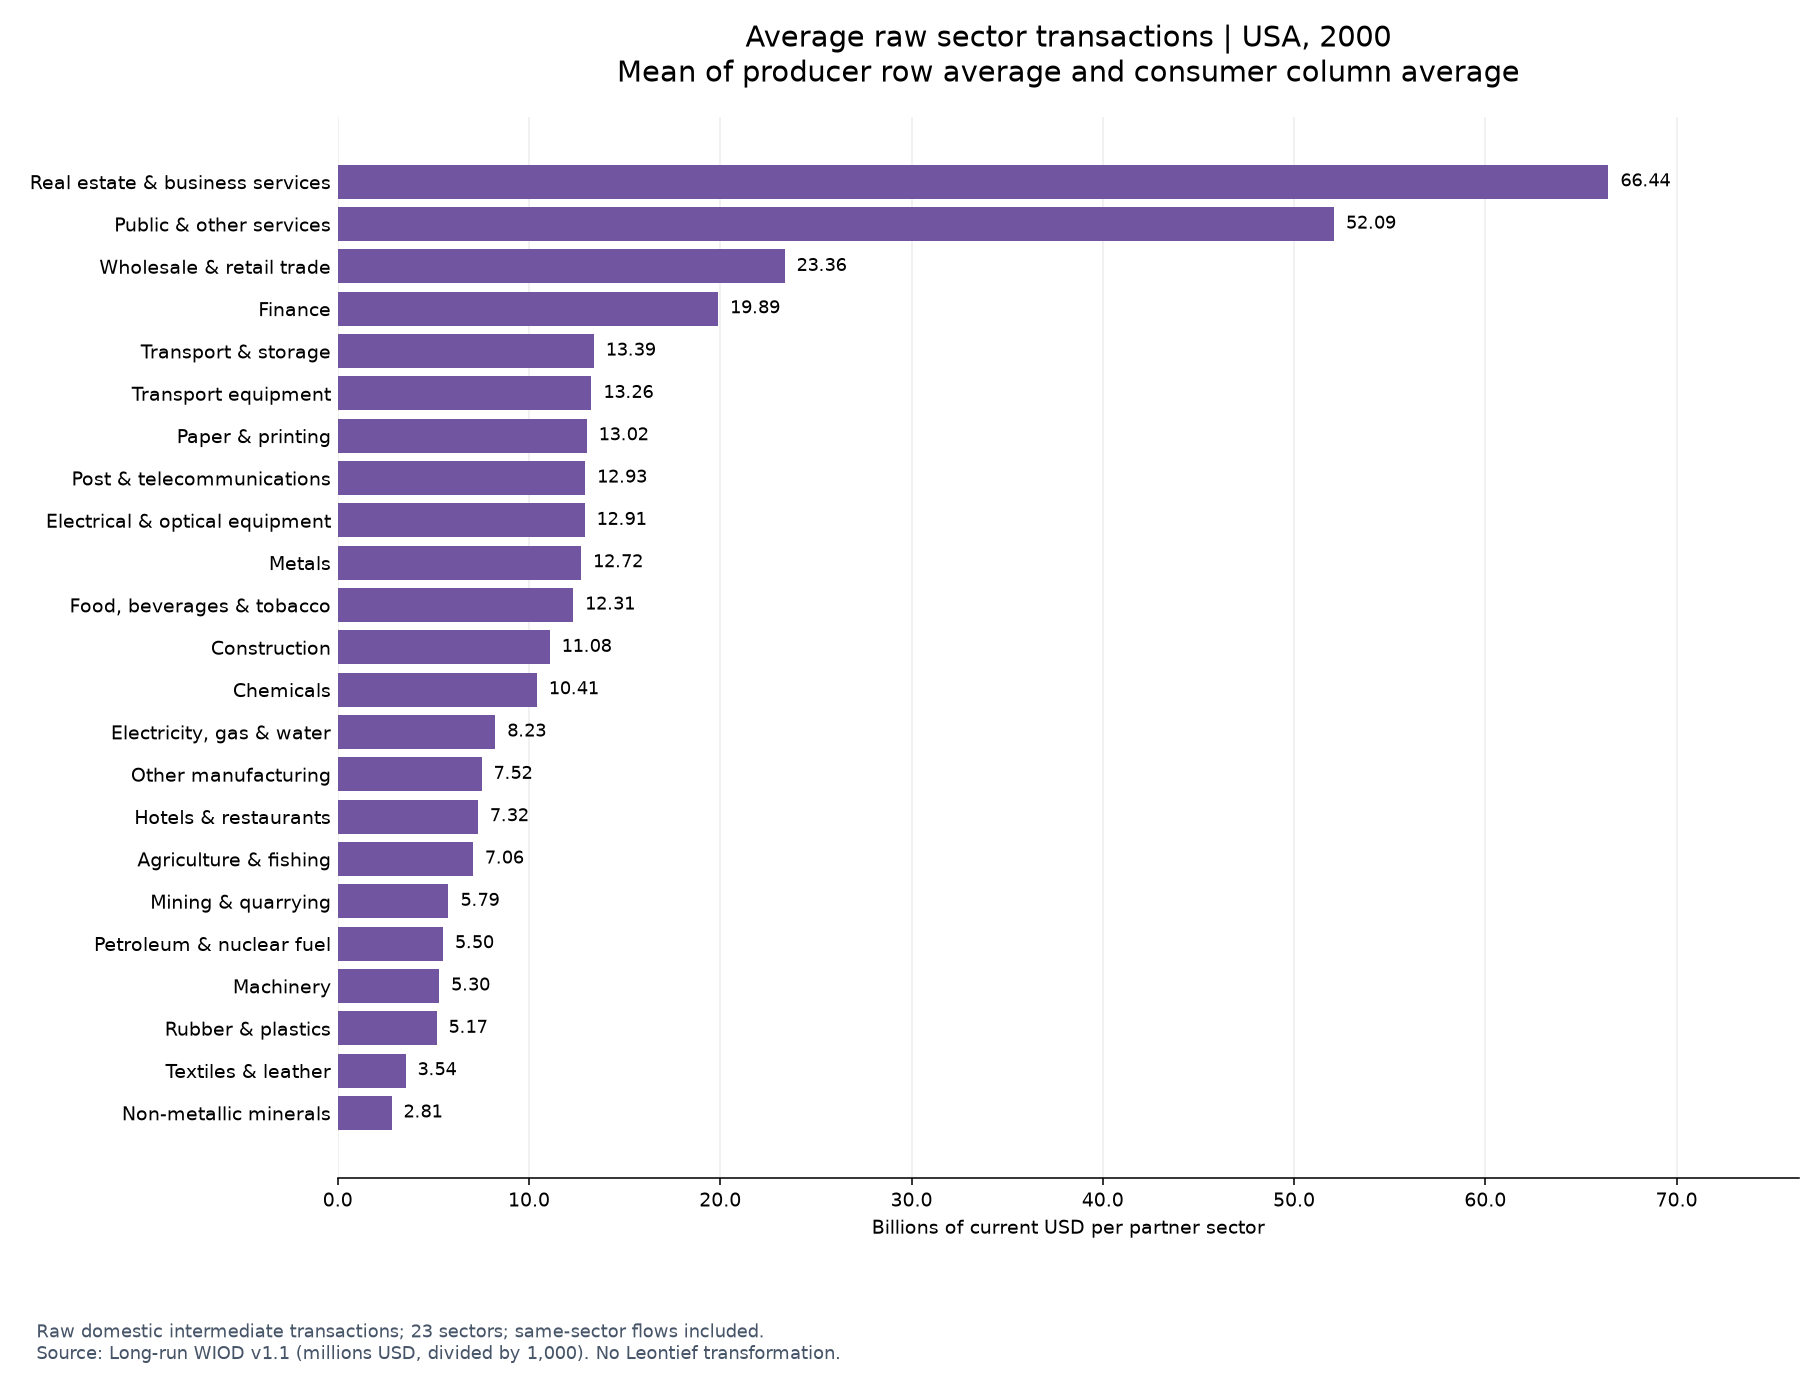
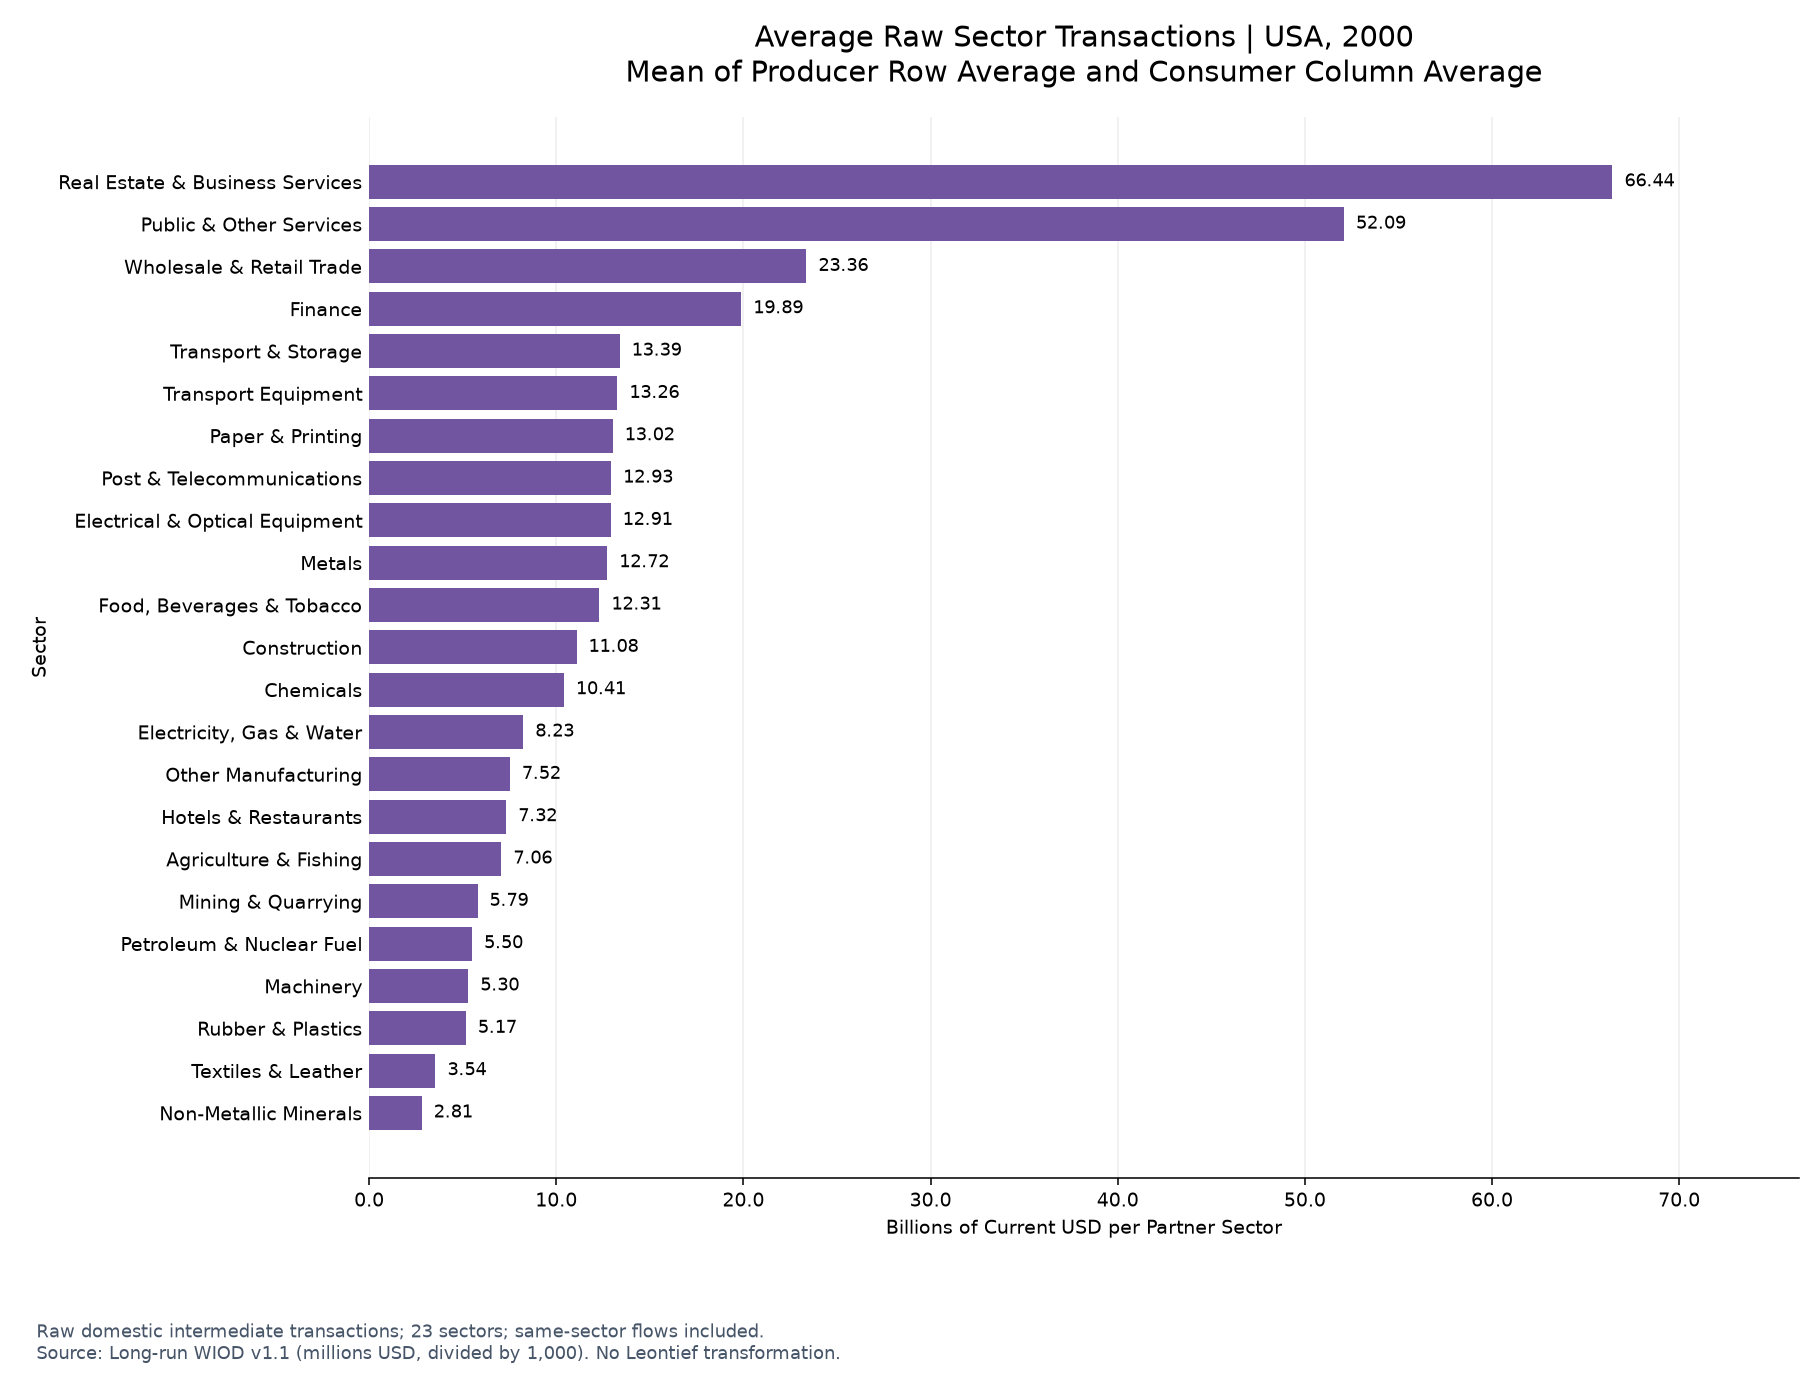
Use consistent title case in raw sector charts

diff --git a/raw_sector_visualizations.py b/raw_sector_visualizations.py
@@ -15,18 +15,18 @@ from matplotlib.ticker import StrMethodFormatter
 
 ROOT = Path(__file__).resolve().parent
 SECTORS = {
-    'AtB': 'Agriculture & fishing', 'C': 'Mining & quarrying',
-    'D15t16': 'Food, beverages & tobacco', 'D17t19': 'Textiles & leather',
-    'D21t22': 'Paper & printing', 'D23': 'Petroleum & nuclear fuel',
-    'D24': 'Chemicals', 'D25': 'Rubber & plastics',
-    'D26': 'Non-metallic minerals', 'D27t28': 'Metals',
-    'D29': 'Machinery', 'D30t33': 'Electrical & optical equipment',
-    'D34t35': 'Transport equipment', 'Dnec': 'Other manufacturing',
-    'E': 'Electricity, gas & water', 'F': 'Construction',
-    'G': 'Wholesale & retail trade', 'H': 'Hotels & restaurants',
-    'I60t63': 'Transport & storage', 'I64': 'Post & telecommunications',
-    'J': 'Finance', 'K': 'Real estate & business services',
-    'LtQ': 'Public & other services',  # Includes administration, education, and health.
+    'AtB': 'Agriculture & Fishing', 'C': 'Mining & Quarrying',
+    'D15t16': 'Food, Beverages & Tobacco', 'D17t19': 'Textiles & Leather',
+    'D21t22': 'Paper & Printing', 'D23': 'Petroleum & Nuclear Fuel',
+    'D24': 'Chemicals', 'D25': 'Rubber & Plastics',
+    'D26': 'Non-Metallic Minerals', 'D27t28': 'Metals',
+    'D29': 'Machinery', 'D30t33': 'Electrical & Optical Equipment',
+    'D34t35': 'Transport Equipment', 'Dnec': 'Other Manufacturing',
+    'E': 'Electricity, Gas & Water', 'F': 'Construction',
+    'G': 'Wholesale & Retail Trade', 'H': 'Hotels & Restaurants',
+    'I60t63': 'Transport & Storage', 'I64': 'Post & Telecommunications',
+    'J': 'Finance', 'K': 'Real Estate & Business Services',
+    'LtQ': 'Public & Other Services',  # Includes administration, education, and health.
 }
 COLORS = {'producer': '#287c8e', 'consumer': '#b86a30', 'combined': '#7255a0'}
 
@@ -95,9 +95,10 @@ def plot_country_year(panel, country='USA', year=2000):
     with plt.rc_context({'font.family': 'DejaVu Sans', 'font.size': 10}):
         fig, ax = plt.subplots(figsize=(13, 10))
         ax.barh([SECTORS[s] for s in scores.index], scores.combined, color=COLORS['combined'])
-        ax.set_title(f'Average raw sector transactions | {country.upper()}, {year}\n'
-                     'Mean of producer row average and consumer column average', fontsize=15, pad=18)
-        ax.set_xlabel('Billions of current USD per partner sector')
+        ax.set_title(f'Average Raw Sector Transactions | {country.upper()}, {year}\n'
+                     'Mean of Producer Row Average and Consumer Column Average', fontsize=15, pad=18)
+        ax.set_ylabel('Sector')
+        ax.set_xlabel('Billions of Current USD per Partner Sector')
         ax.xaxis.set_major_formatter(StrMethodFormatter('{x:,.1f}'))
         for i, value in enumerate(scores.combined):
             ax.text(value, i, f'  {value:,.2f}', va='center', fontsize=9)
@@ -112,14 +113,15 @@ def plot_pooled(panel, role='producer'):
     if role not in COLORS:
         raise ValueError('role must be producer, consumer, or combined')
     values = pooled_scores(panel)[role].sort_values()
-    titles = {'producer': 'Producer ranking: sales to domestic industries',
-              'consumer': 'Consumer ranking: purchases from domestic industries',
-              'combined': 'Combined ranking: average of sales and purchases'}
+    titles = {'producer': 'Producer Ranking: Sales to Domestic Industries',
+              'consumer': 'Consumer Ranking: Purchases from Domestic Industries',
+              'combined': 'Combined Ranking: Average of Sales and Purchases'}
     with plt.rc_context({'font.family': 'DejaVu Sans', 'font.size': 10}):
         fig, ax = plt.subplots(figsize=(13, 10))
         ax.barh([SECTORS[s] for s in values.index], values, color=COLORS[role])
-        ax.set_title(titles[role] + '\n25 countries | 1965-2000 cumulative totals', fontsize=15, pad=18)
-        ax.set_xlabel('Cumulative billions of current USD (sum across 36 years)')
+        ax.set_title(titles[role] + '\n25 Countries | 1965-2000 Cumulative Totals', fontsize=15, pad=18)
+        ax.set_ylabel('Sector')
+        ax.set_xlabel('Cumulative Billions of Current USD (Sum Across 36 Years)')
         for i, value in enumerate(values):
             ax.text(value, i, f'  {value:,.0f}', va='center', fontsize=9)
         ax.set_xlim(0, values.max() * 1.17)
